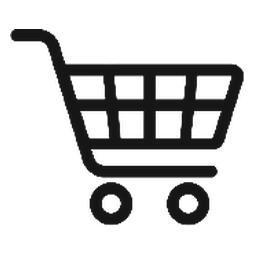
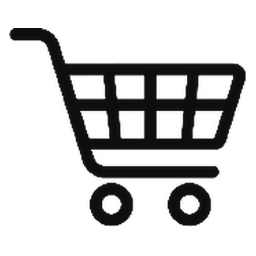
Add files via upload

diff --git a/cart-icon.css b/cart-icon.css
@@ -80,3 +80,50 @@ button .icon-wrap, button .btn-icon-wrap, button .cart-img-wrap {
   width: 1.8rem !important;
   height: 1.8rem !important;
 }
+
+
+/* Ajuste final octubre 2026: iconos más grandes/oscuros y más espacio */
+.cart-side .ico {
+  background-size: 96% auto !important;
+  background-position: center !important;
+}
+#cart-floating::before {
+  width: 38px !important;
+  height: 38px !important;
+  background-size: contain !important;
+}
+.cart-detail-btn::before {
+  width: 38px !important;
+  height: 38px !important;
+  flex-basis: 38px !important;
+  background-size: contain !important;
+}
+/* Botón Catálogo 2026 un poco más grande */
+.admin-entry {
+  font-size: 13px !important;
+  padding: 13px 18px !important;
+}
+.admin-entry svg, .admin-entry .ico, .admin-entry i {
+  width: 20px !important;
+  height: 20px !important;
+}
+/* Más espacio entre los iconos laterales */
+.card .actions {
+  gap: 13px !important;
+  right: 12px !important;
+}
+.card .actions .act {
+  margin: 1px 0 !important;
+}
+.card .actions .ico {
+  width: 50px !important;
+  height: 50px !important;
+}
+/* Un poco más de separación arriba si se comprime en móvil */
+@media (max-width: 540px) {
+  .card .actions { gap: 11px !important; right: 11px !important; }
+  .card .actions .ico { width: 45px !important; height: 45px !important; }
+  #cart-floating::before { width: 34px !important; height: 34px !important; }
+  .cart-detail-btn::before { width: 34px !important; height: 34px !important; flex-basis: 34px !important; }
+  .admin-entry { font-size: 12px !important; padding: 11px 15px !important; }
+}

diff --git a/index.html b/index.html
@@ -8,7 +8,7 @@
   <title>JCYG STORE | Catálogo</title>
   <link rel="icon" type="image/png" href="assets/jcyg-store-logo.png">
   <link rel="stylesheet" href="styles.css?v=20261018-3">
-  <link rel="stylesheet" href="cart-icon.css?v=20261019-6">
+  <link rel="stylesheet" href="cart-icon.css?v=20261019-8">
 </head>
 <body>
   <main id="feed" class="feed" aria-label="Catálogo de productos"></main>
